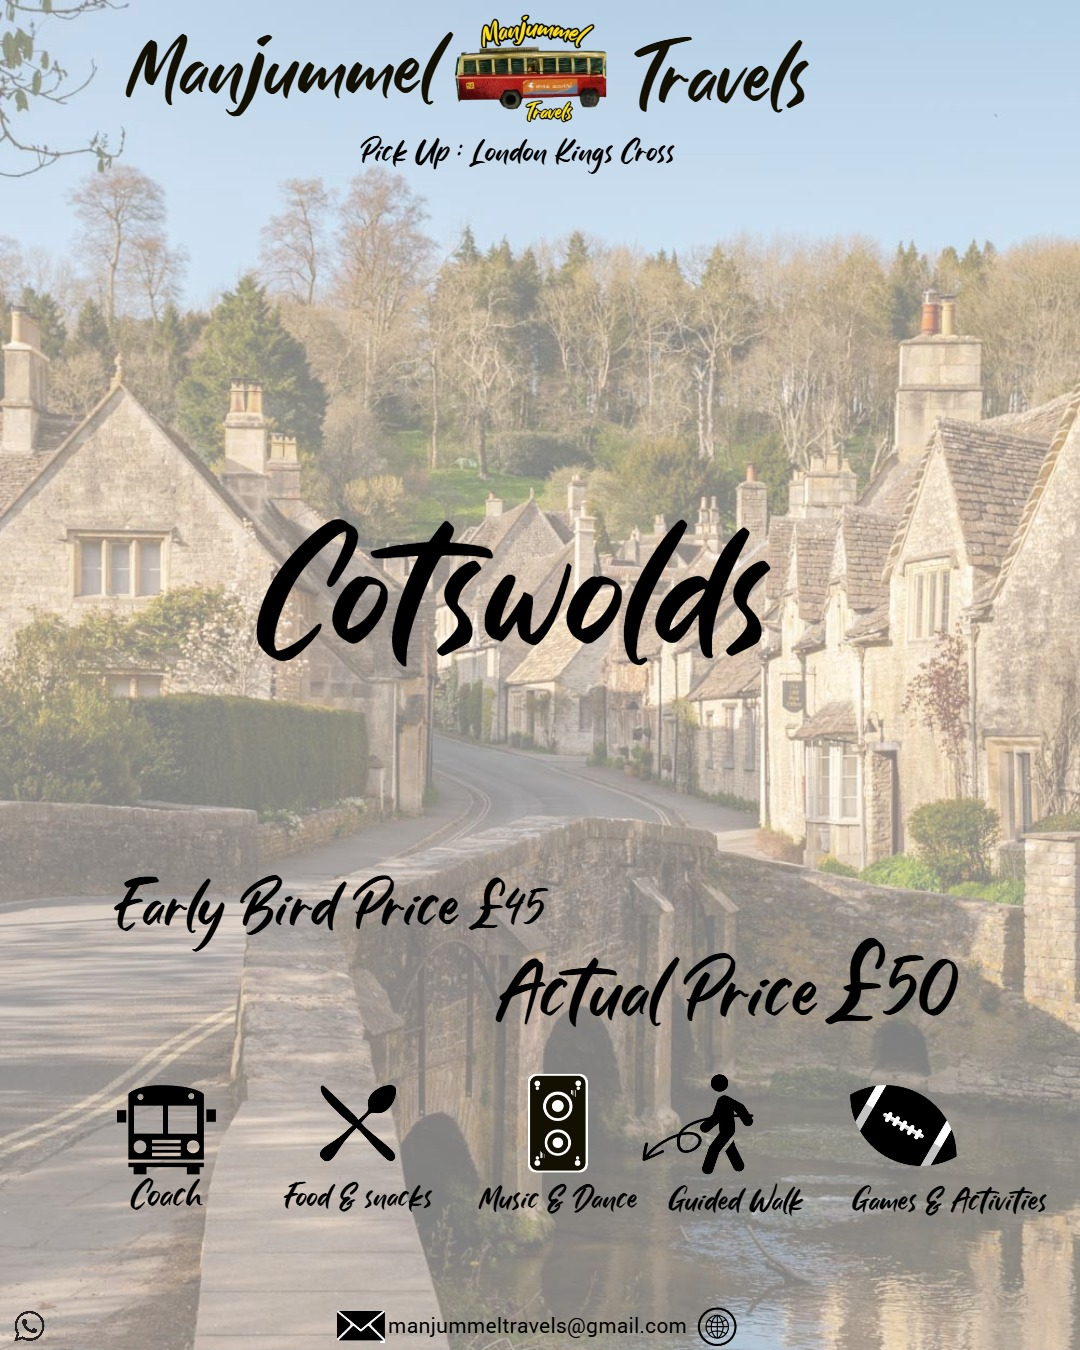
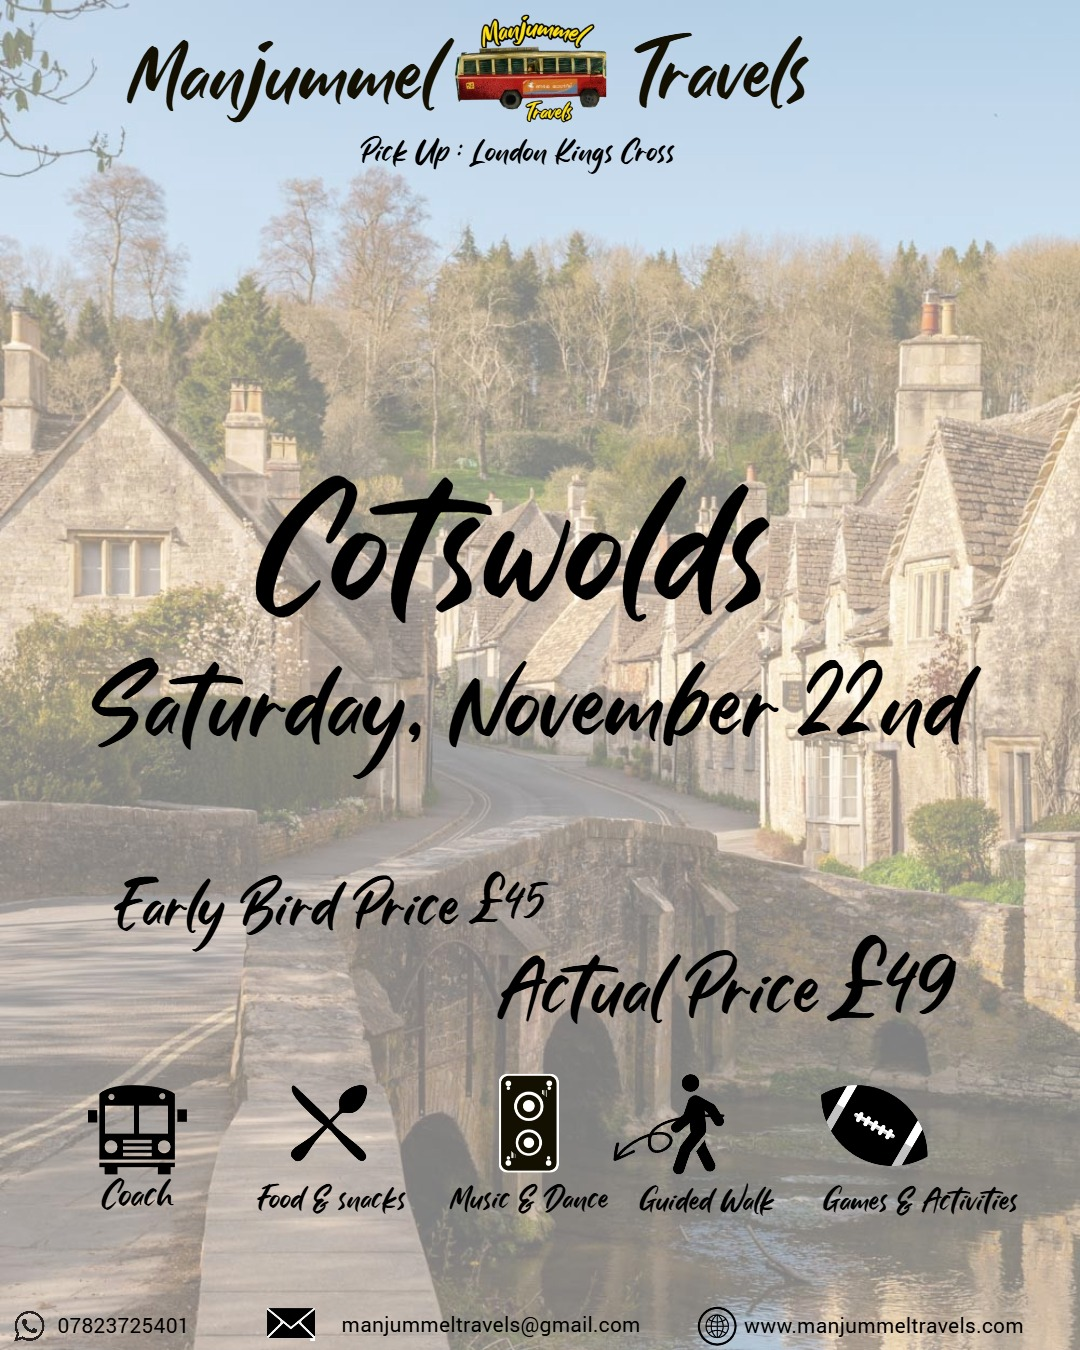
updated all the pages

diff --git a/index.html b/index.html
@@ -117,6 +117,18 @@
     .trip-price{color:#16a085;font-size:22px;font-weight:800}
     .trip-price small{display:block;color:#888;font-weight:500;margin-top:2px}
     .view-all{text-align:center;margin-top:50px}
+    /* Trip date pill */
+    .trip-date{
+      display:inline-block;
+      background:#e8f6f2;
+      color:#0e7e68;
+      border:1px solid #cbece4;
+      padding:6px 10px;
+      border-radius:999px;
+      font-size:13px;
+      font-weight:700;
+      margin:0 0 10px 0;
+    }
 
     /* FAQ */
     .faq{padding:70px 20px;background:#fff}
@@ -170,7 +182,7 @@
       .whatsapp-float{right:24px;width:56px;height:56px;font-size:28px}
     }
 
-    /* Modal (cleaner typography) */
+    /* Modal (clean typography) */
     .modal{position:fixed;inset:0;background:rgba(0,0,0,.55);display:none;align-items:center;justify-content:center;z-index:4000;padding:20px}
     .modal.active{display:flex}
     .modal-content{background:#fff;width:100%;max-width:680px;max-height:85vh;border-radius:12px;box-shadow:0 10px 40px rgba(0,0,0,.25);overflow:hidden;position:relative;display:flex;flex-direction:column}
@@ -323,11 +335,15 @@
           </div>
           <div class="trip-content">
             <div class="trip-location">📍 Cotswolds, England</div>
+            <div class="trip-date">📅 Saturday 22nd November</div>
             <h3>Cotswolds Escape</h3>
             <p>Visit Bibury’s Arlington Row, riverside Bourton-on-the-Water, and more picture-perfect villages in one relaxed day.</p>
             <div class="trip-duration">🕐 1 Day</div>
             <div class="trip-footer">
-              <div class="trip-price">£45 Early Bird <small>£50 Regular</small></div>
+              <div class="trip-price">
+                £45 Early Bird <small>+ booking charge</small>
+                <small>£49 Standard + booking charge</small>
+              </div>
               <a href="#" class="btn-outline" onclick="openTripDetails(event)">View Details</a>
             </div>
           </div>
@@ -353,6 +369,7 @@
       </div>
       <div class="modal-body">
         <p>Spend a dreamy day among honey-stone cottages, arched bridges, gentle rivers, and classic English countryside views.</p>
+        <p class="muted" style="margin-top:-2px">📅 <strong>Saturday 22nd November</strong></p>
 
         <h3>📍 Places to Visit</h3>
         <ul>
@@ -381,7 +398,10 @@
         <p class="muted"><em>Order of stops may change due to traffic/seasonal events.</em></p>
       </div>
       <div class="modal-footer">
-        <div class="price-highlight">£45 Early Bird <span class="muted" style="font-weight:400;"> (£50 Regular)</span></div>
+        <div class="price-highlight">
+          £45 Early Bird + booking charge
+          <span class="muted" style="font-weight:400;">(£49 Standard + booking charge)</span>
+        </div>
         <a class="btn-primary" href="#book" onclick="closeTripDetails()">Book This Trip →</a>
       </div>
     </div>
